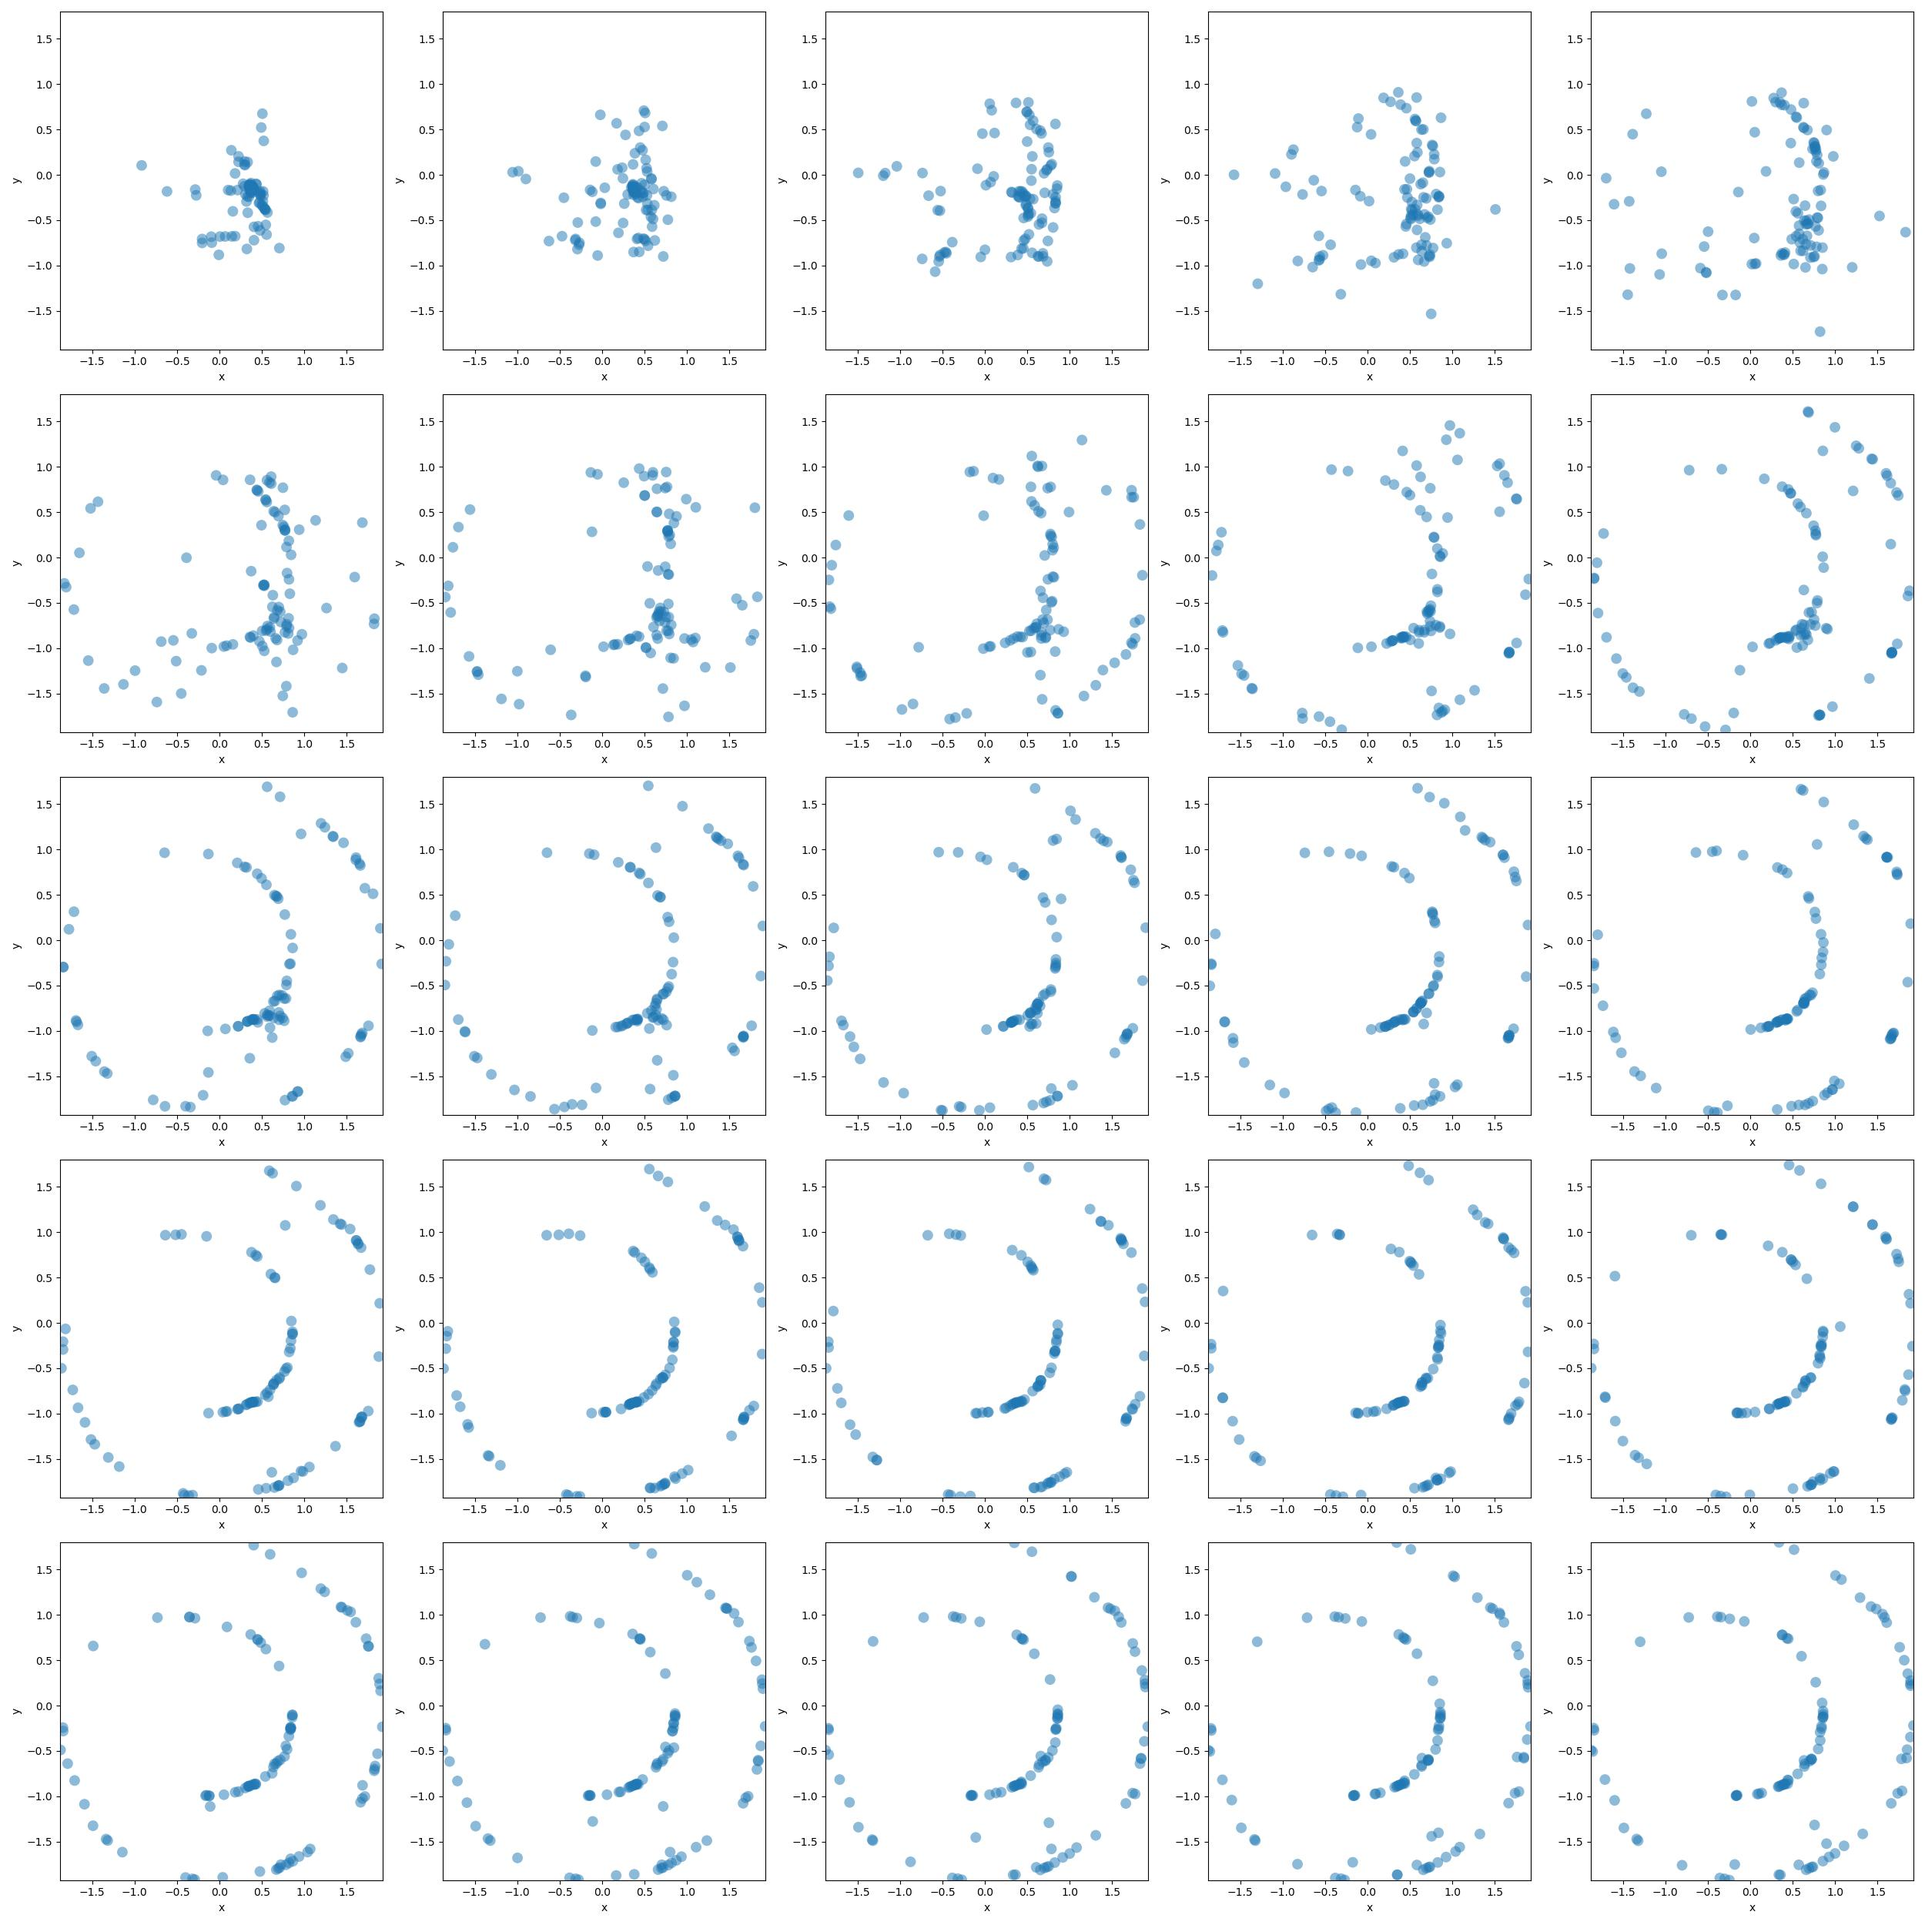
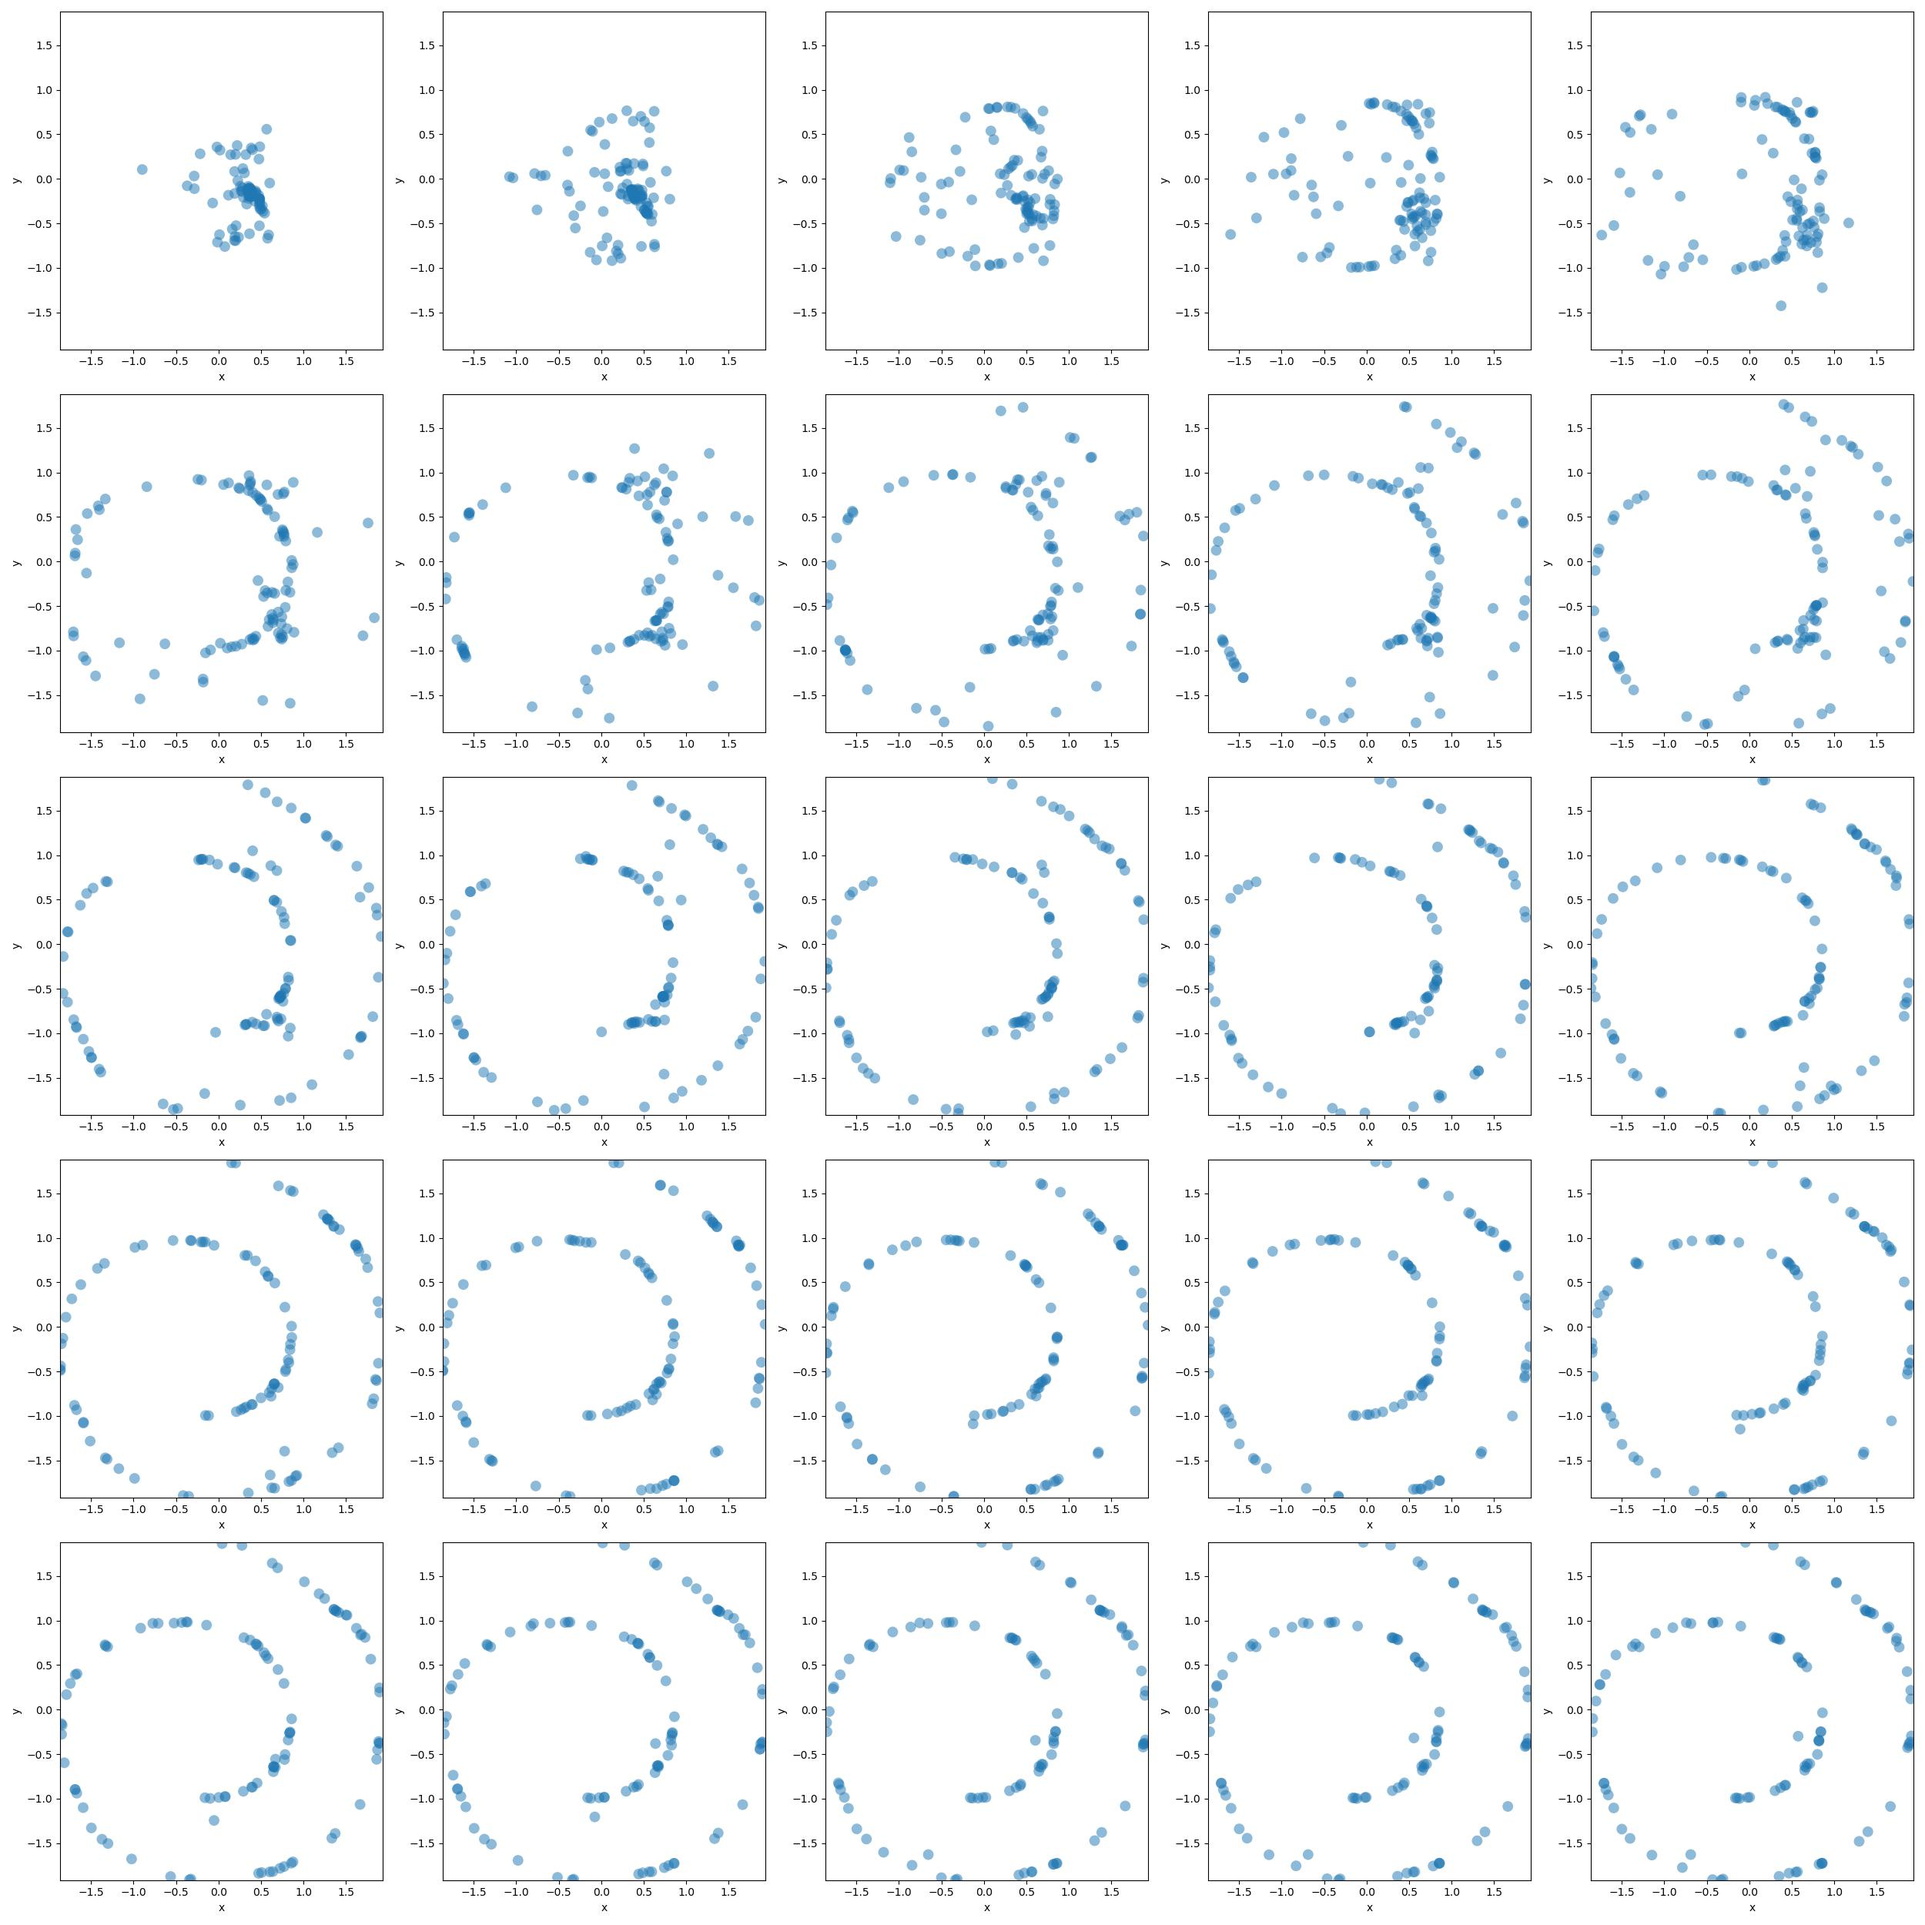
bridge now works good

diff --git a/graphdiffusion/bridge.py b/graphdiffusion/bridge.py
@@ -59,9 +59,6 @@ class VectorBridgeLinear(nn.Module):
     def forward(self, pipeline, data_now, data_prediction, t_now, t_query, *args, **kwargs):
         direction = data_prediction - data_now
         direction = direction/torch.norm(direction)
-        seed = torch.randint(0, 10000, (1,)).item()
-        #magnitude = torch.norm(pipeline.degradation(data_prediction, t_now, seed=seed) - pipeline.degradation(data_prediction, t_query, seed=seed))
-
         x_tminus1 = data_now + direction * (1.0-t_now)
 
         if t_query > 1e-3:
@@ -100,6 +97,9 @@ class VectorBridgeDDPM(nn.Module):
         betas = VectorDegradationDDPM.generate_schedule()
         step_num = betas.numel()
         t_int = int(t_now*(step_num-1))
+        t_query_int = int(t_query*(step_num-1))
+        print("t_int", t_int, "t_query_int", t_query_int)
+        assert(t_int == t_query_int+1 or t_int == t_query_int+2 or t_int == t_query_int)
         t_step_tensor = torch.full((row_num, 1), t_int, device=data_now.device).long() 
 
         beta_t = betas[t_int]

diff --git a/examples/example_spring.py b/examples/example_spring.py
@@ -142,4 +142,4 @@ pipeline.visualize_foward(train_dataloader, outfile="spiral_forward_ddpm.jpg", p
 #pipeline.reconstruction_obj.save_model(pipeline, "../pre_trained/vectordenoiser_spiral_weights_ddpm.pt")
 
 # Inference
-pipeline.visualize_reconstruction(data=train_dataloader, plot_data_func=plot_2darray_on_axis, outfile="spiral_backward_ddpm.jpg", num=25, steps=100)
+pipeline.visualize_reconstruction(data=train_dataloader, plot_data_func=plot_2darray_on_axis, outfile="spiral_backward_ddpm.jpg", num=25, steps=1000)
